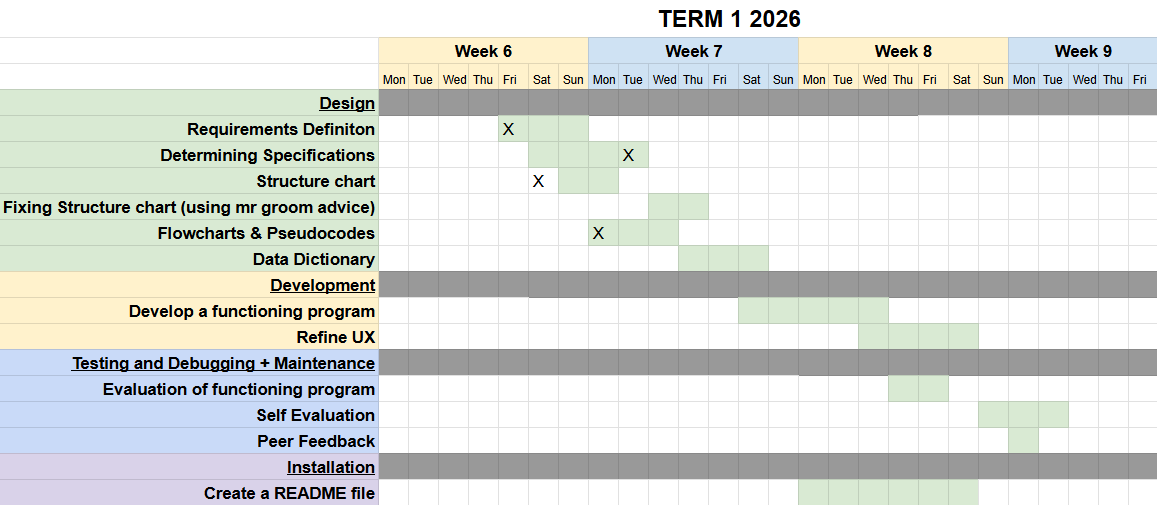
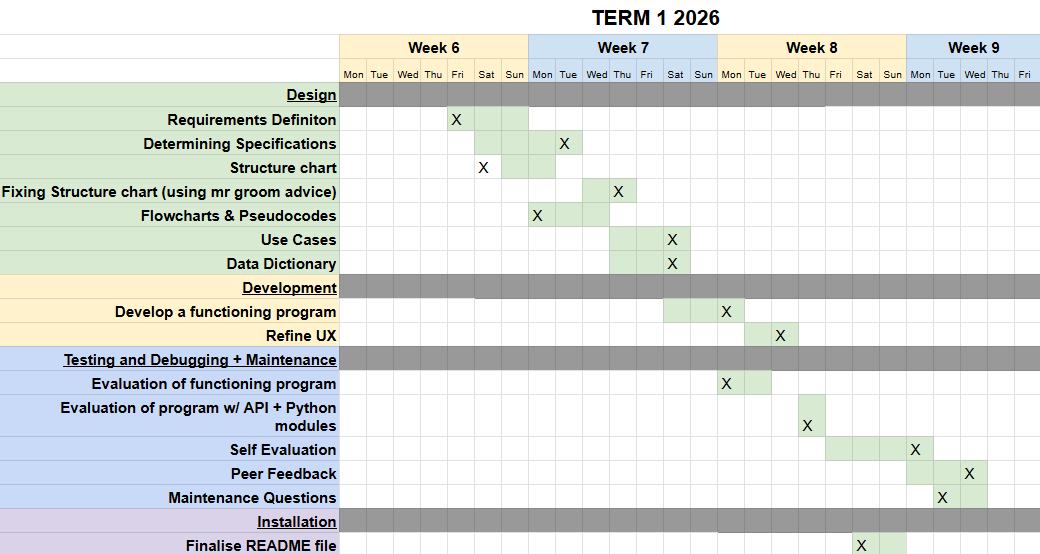
refactor: updated gantt chart + structure chart
just swapped image files with updated versions of gantt chart and structure chart

diff --git a/Documentation.md b/Documentation.md
@@ -59,11 +59,9 @@ The main menu should be both logical and appealing to users, where options are c
 
 After the system completes a user action, it should ask the user if they are done to clear the screen and reload the main menu for further actions and prevent a cluttered and confusing interface.
 
-Furthermore, overall tone of system messages and menu should be very friendly and catering to the user and must maintain a warm character while giving clear and readable responses to boost overall user satisfaction. 
+Furthermore, overall tone of system messages and menu should be very friendly while giving clear and readable responses to boost overall user satisfaction. 
 
 **Reliability**
-
-What could perhaps not crash the whole system, but could be an issue and needs to be addressed? Data integrity? Duplicate data? API retrieval crash?
 
 The system should be able to operate reliably when retrieving and displaying character data from the My Little Pony API. Potential issues such as failed API requests, duplicate data, or incomplete responses should be handled gracefully without causing the application to crash. Additionally, the program must maintain data integrity by ensuring that information retrieved from the API is processed and displayed accurately.
 
@@ -99,7 +97,7 @@ If the API cannot be reached or fails to return valid data, the system should di
 - User will return to main menu and can continue interacting with the project
 
 ---
-### Use Case #2: Filter MLP characters by attributes (sex/type)
+### Use Case #2: Filter MLP characters by attributes (sex/kind)
 **Actors:** User
 
 **Preconditions:** 
@@ -111,7 +109,7 @@ If the API cannot be reached or fails to return valid data, the system should di
 **Main Flow:** 
 
 1. User selects 'filter characters' from the main menu via a string input in the command line.
-2. The system displays to user main filter options (sex, type) and prompts user input
+2. The system displays to user main filter options (sex, kind) and prompts user input
 3. User selects a main filter.
 4. System displays to user sub filter options within selected main filter and prompts user input
 5. User selects a sub filter.
@@ -194,8 +192,8 @@ If the API cannot be reached or fails to return valid data, the system should di
 
 ## Design
 ### Structure Chart
-![Structure Chart](./images/structurechart.png)
-REDO AGAIN RIP
+![Structure Chart](./images/structurechart.jpeg)
+
 ---
 ### Flowchart & Pseudocode
 #### main()
